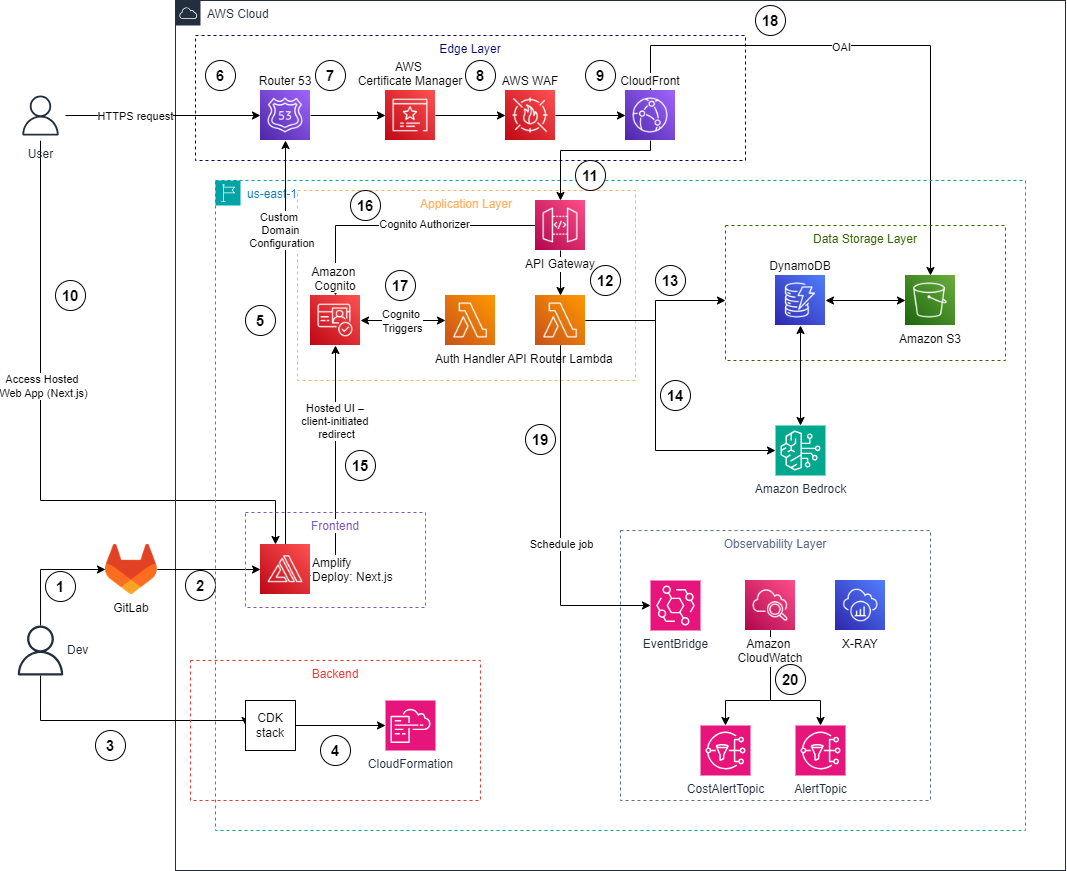
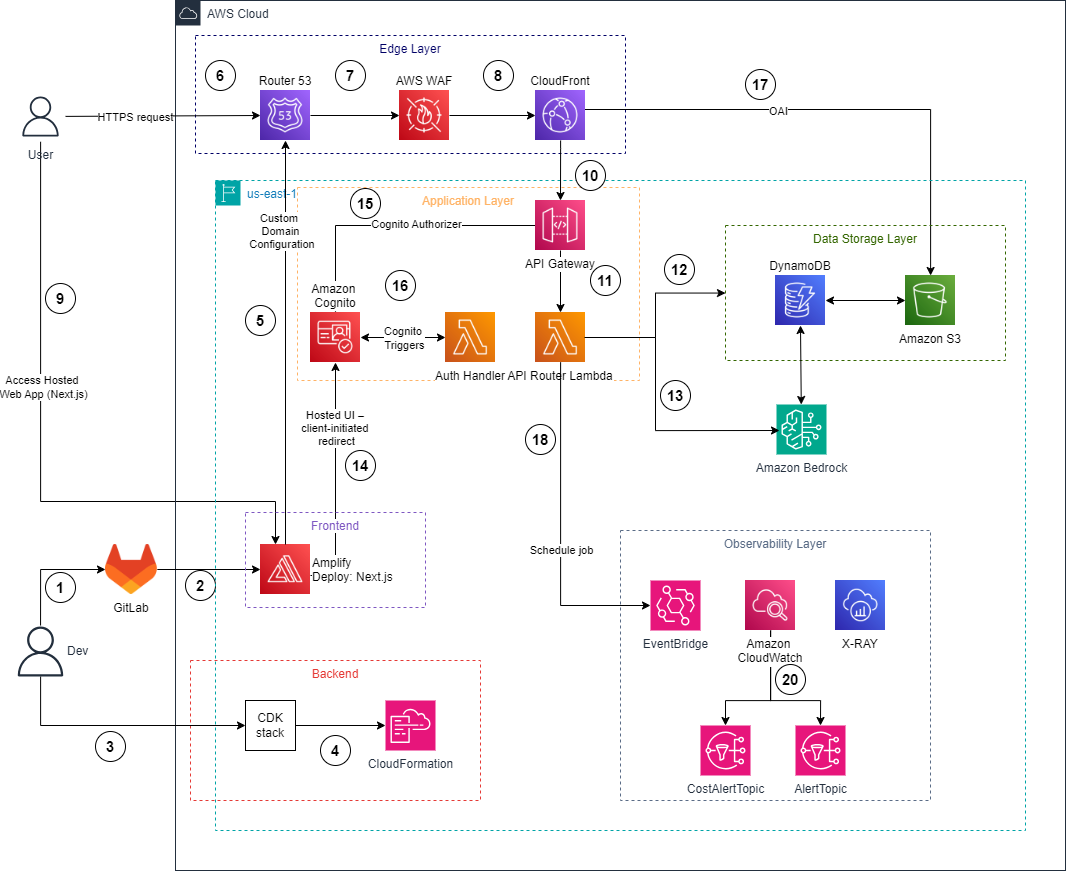
Update proposal

diff --git a/content/2-Proposal/_index.vi.md b/content/2-Proposal/_index.vi.md
@@ -11,61 +11,62 @@ pre: " <b> 2. </b> "
 
 ### 1. Tóm tắt dự án
 **Mini Food Social** là một nền tảng mạng xã hội ẩm thực được xây dựng hoàn toàn theo kiến trúc **serverless**, tích hợp AI để hỗ trợ sáng tạo công thức món ăn.  
-Hệ thống cho phép người dùng chia sẻ bài viết, tải ảnh món ăn, và nhận gợi ý công thức mới dựa trên sở thích hoặc nguyên liệu.  
-Ứng dụng hỗ trợ tối đa **100 người dùng đăng ký**, với các tính năng: đăng nhập, đăng bài, thích, bình luận, và tương tác AI.
+Người dùng có thể đăng bài, chia sẻ hình ảnh món ăn, và nhận gợi ý công thức nấu ăn được sinh tự động bởi AI dựa trên nguyên liệu hoặc khẩu vị.  
+Ứng dụng hỗ trợ tối đa **100 người dùng đăng ký**, với các tính năng: đăng nhập, đăng bài, bình luận, thích, và gợi ý món ăn thông minh.
 
-Giải pháp sử dụng các dịch vụ AWS được quản lý hoàn toàn, đảm bảo khả năng mở rộng, bảo mật và chi phí tối ưu:
-- **AWS Amplify** (Lưu trữ và CI/CD cho frontend Next.js)  
+Hệ thống sử dụng các dịch vụ được quản lý toàn phần của AWS, đảm bảo khả năng mở rộng, bảo mật và chi phí tối ưu:
+- **AWS Amplify** (Lưu trữ & CI/CD frontend Next.js)  
 - **Amazon API Gateway** + **AWS Lambda** (Xử lý backend)  
 - **Amazon DynamoDB** (CSDL NoSQL)  
-- **Amazon Bedrock** (Sinh công thức AI)  
+- **Amazon Bedrock** (AI sinh công thức)  
 - **Amazon Cognito** (Xác thực người dùng)  
-- **Amazon CloudFront + WAF + ACM + Route 53** (Phân phối và bảo mật nội dung)
+- **Amazon CloudFront + WAF + Route 53** (Phân phối & bảo mật nội dung)  
 
-Giải pháp này cung cấp nền tảng vững chắc, chi phí thấp và sẵn sàng mở rộng cho ứng dụng web hiện đại.
+Giải pháp mang lại nền tảng ổn định, chi phí thấp và dễ mở rộng cho ứng dụng web hiện đại.
 
 ---
 
 ### 2. Vấn đề và giải pháp
 #### Vấn đề hiện tại
-Các nền tảng chia sẻ công thức hiện nay thường mang tính tĩnh, thiếu cá nhân hóa và khó mở rộng.  
+Các nền tảng chia sẻ công thức hiện nay thường thiếu tính cá nhân hóa và tương tác.  
 Người dùng mong muốn:
-- Cộng đồng tương tác (đăng bài, bình luận, thích bài)  
+- Cộng đồng tương tác mạnh mẽ (đăng bài, bình luận, thích bài)  
 - Gợi ý công thức thông minh bằng AI  
-- Đăng nhập dễ dàng và bảo mật cao  
+- Đăng nhập dễ dàng, bảo mật cao  
 
-Tuy nhiên, việc xây dựng hệ thống như vậy thường đòi hỏi chi phí cao và quản lý phức tạp.
+Tuy nhiên, việc vận hành hệ thống như vậy thường tốn kém và phức tạp khi mở rộng.
 
 #### Giải pháp đề xuất
-**Mini Food Social** ứng dụng hoàn toàn kiến trúc **Serverless** và **Event-driven** của AWS:
+**Mini Food Social** áp dụng kiến trúc **Serverless** và **Event-driven** hoàn toàn trên AWS:
 - **Amplify** triển khai frontend qua GitLab CI/CD.  
-- **Cognito** quản lý đăng nhập, xác thực và token JWT.  
+- **Cognito** quản lý đăng nhập, xác thực, và token JWT.  
 - **API Gateway** định tuyến request đến **Lambda**.  
-- **Lambda Router** xử lý logic: bài đăng, hồ sơ, và yêu cầu AI.  
-- **Bedrock** tạo công thức món ăn dựa theo prompt của người dùng.  
-- **CloudFront + WAF** đảm bảo phân phối nhanh và an toàn.
+- **Lambda Router** xử lý logic (bài đăng, người dùng, AI).  
+- **Bedrock** sinh công thức món ăn dựa trên prompt người dùng.  
+- **CloudFront + WAF** phân phối nhanh và đảm bảo an toàn.  
 
 ---
 
 ### Lợi ích & Hiệu quả đầu tư
-- **Chi phí thấp** — Trả tiền theo mức sử dụng, không cần máy chủ.  
+- **Chi phí thấp** — Trả tiền theo mức sử dụng, không cần quản lý máy chủ.  
 - **Tự động mở rộng** — Hoạt động ổn định khi tăng lượng người dùng.  
-- **Tích hợp AI** — Tăng mức độ tương tác và giữ chân người dùng.  
+- **Tích hợp AI** — Nâng cao trải nghiệm và giữ chân người dùng.  
 - **Bảo mật cao** — Cognito xác thực, dữ liệu mã hóa trong S3 & DynamoDB.  
 
-**Chi phí hàng tháng ước tính (không tính Free Tier): ≈ $16.70 USD**  
-**Chi phí hàng năm: ≈ $200.40 USD**
+**Chi phí hàng tháng ước tính (không tính Free Tier): ≈ $15.40 USD**  
+**Chi phí hàng năm: ≈ $184.80 USD**
 
 ---
 
 ### 3. Kiến trúc hệ thống
-Hệ thống được thiết kế theo mô hình **5 lớp Serverless**, đảm bảo tính mở rộng, dễ bảo trì và tiết kiệm chi phí.
+Hệ thống được chia thành **5 lớp Serverless**, giúp quản lý độc lập và dễ mở rộng:
 
-- **Lớp CI/CD:** GitLab tự động triển khai code — frontend qua **AWS Amplify**, backend qua **AWS CDK** và **CloudFormation**.  
-- **Lớp Edge:** Bảo mật & phân phối lưu lượng với **Route 53** (DNS), **ACM** (chứng chỉ SSL), **WAF** (tường lửa), và **CloudFront** (CDN toàn cầu). CloudFront truy cập S3 qua **OAI** để đảm bảo quyền riêng tư.  
-- **Lớp Ứng dụng:** **Amplify** lưu trữ giao diện Next.js; **API Gateway** + **Lambda** xử lý logic backend; **Cognito** quản lý xác thực & token.  
-- **Lớp Dữ liệu:** **DynamoDB** lưu dữ liệu người dùng & bài viết; **S3** lưu hình ảnh; **EventBridge** quản lý sự kiện bất đồng bộ.  
-- **Lớp Quan sát:** **CloudWatch** (giám sát), **X-Ray** (theo dõi request), và **SNS** (gửi cảnh báo).  
+- **Lớp CI/CD:** GitLab tự động triển khai — **Amplify** cho frontend, **CDK + CloudFormation** cho backend.  
+- **Lớp Edge:** Bảo mật & phân phối lưu lượng với **Route 53** (DNS), **WAF** (Web Application Firewall), và **CloudFront** (CDN).  
+  CloudFront truy cập **S3** qua **OAI (Origin Access Identity)** để tăng bảo mật.  
+- **Lớp Ứng dụng:** **Amplify** lưu trữ frontend (Next.js); **API Gateway + Lambda** xử lý backend; **Cognito** xác thực & cấp token.  
+- **Lớp Dữ liệu:** **DynamoDB** lưu dữ liệu bài đăng và người dùng; **S3** lưu hình ảnh; **EventBridge** xử lý sự kiện bất đồng bộ.  
+- **Lớp Quan sát:** **CloudWatch** (giám sát), **X-Ray** (truy vết request), **SNS** (gửi thông báo chi phí và cảnh báo).
 
 ![Mini Food Social Architecture](/images/2-Proposal/FsocialArchitecture.png)
 
@@ -73,7 +74,7 @@ Hệ thống được thiết kế theo mô hình **5 lớp Serverless**, đảm
 | Danh mục | Dịch vụ |
 |-----------|----------|
 | **Frontend & CI/CD** | AWS Amplify (Next.js), GitLab, AWS CDK, CloudFormation |
-| **Edge & Bảo mật** | Route 53, ACM, CloudFront, WAF |
+| **Edge & Bảo mật** | Route 53, CloudFront, WAF |
 | **Ứng dụng & Xử lý** | API Gateway, AWS Lambda, Amazon Cognito |
 | **Dữ liệu & AI** | DynamoDB (single-table), S3, Amazon Bedrock |
 | **Quan sát & Sự kiện** | CloudWatch, X-Ray, SNS, EventBridge |
@@ -114,7 +115,7 @@ Hệ thống được thiết kế theo mô hình **5 lớp Serverless**, đảm
 ### 5. Lộ trình & Mốc hoàn thành
 | Tháng | Kết quả |
 |--------|----------|
-| **Tháng 1** | Hoàn thành thiết kế kiến trúc & CI/CD |
+| **Tháng 1** | Hoàn thiện thiết kế kiến trúc & CI/CD |
 | **Tháng 2** | Hoàn thiện xác thực & backend |
 | **Tháng 3** | Tích hợp frontend, AI & quan sát hệ thống |
 | **Cuối tháng 3** | ✅ Triển khai bản Production |
@@ -122,7 +123,7 @@ Hệ thống được thiết kế theo mô hình **5 lớp Serverless**, đảm
 ---
 
 ### 6. Ước tính chi phí
-#### Chi phí dịch vụ AWS (100 người dùng hoạt động, không Free Tier)
+#### Chi phí dịch vụ AWS (100 người dùng hoạt động, không tính Free Tier)
 | Dịch vụ | Mô tả | Chi phí tháng (USD) |
 |----------|--------|---------------------|
 | **AWS Amplify** | Lưu trữ & CI/CD frontend | **$2.00** |
@@ -136,10 +137,10 @@ Hệ thống được thiết kế theo mô hình **5 lớp Serverless**, đảm
 | **Amazon Bedrock** | Sinh văn bản (~50K tokens) | **$2.50** |
 | **Amazon EventBridge** | Xử lý sự kiện | **$0.10** |
 | **Amazon Route 53** | Tên miền + DNS | **$1.30** |
-| **ACM / CloudFormation / SNS / X-Ray** | SSL + hạ tầng + giám sát | **$0.00** |
+| **CloudFormation / SNS / X-Ray** | Hạ tầng + giám sát | **$0.00** |
 
-**➡ Tổng chi phí hàng tháng:** ≈ **$16.70 USD**  
-**➡ Chi phí hàng năm:** ≈ **$200.40 USD**
+**➡ Tổng chi phí hàng tháng:** ≈ **$15.40 USD**  
+**➡ Chi phí hàng năm:** ≈ **$184.80 USD**
 
 ---
 
@@ -151,19 +152,19 @@ Hệ thống được thiết kế theo mô hình **5 lớp Serverless**, đảm
 | Rule WAF chặn nhầm traffic | Trung bình | Thấp |
 
 **Giải pháp giảm thiểu:**  
-- Cài đặt cảnh báo chi phí CloudWatch cho Bedrock.  
-- Giới hạn quyền truy cập Lambda bằng IAM.  
-- Kiểm thử rule WAF trên môi trường staging trước production.
+- Thiết lập cảnh báo chi phí CloudWatch cho Bedrock.  
+- Áp dụng nguyên tắc **IAM least privilege** cho Lambda.  
+- Kiểm thử rule WAF trong môi trường staging trước production.
 
 ---
 
 ### 8. Kết quả kỳ vọng
 #### Kết quả kỹ thuật
 - Hoàn thiện nền tảng **mạng xã hội ẩm thực serverless** có tích hợp AI.  
-- Hệ thống bảo mật cao với **Cognito**, **WAF**, **CloudFront**.  
-- Giám sát toàn diện qua **CloudWatch** và **X-Ray**.
+- Hệ thống bảo mật và mở rộng tốt với **Cognito**, **WAF**, **CloudFront**.  
+- Giám sát và cảnh báo tự động bằng **CloudWatch** và **X-Ray**.
 
 #### Giá trị lâu dài
-- Chứng minh năng lực ứng dụng thực tế **Serverless, DevOps, AI Integration**.  
-- Có thể mở rộng lên **500+ người dùng** dễ dàng.  
-- Dùng lại như mẫu tham khảo cho các dự án AWS sau này.
+- Thể hiện năng lực thực hành **Serverless, DevOps, AI Integration**.  
+- Có thể mở rộng lên **500+ người dùng** mà không cần thay đổi kiến trúc.  
+- Là **mẫu kiến trúc chuẩn AWS** có thể tái sử dụng cho các dự án sau.

diff --git a/content/2-Proposal/_index.md b/content/2-Proposal/_index.md
@@ -20,7 +20,7 @@ The architecture leverages **AWS managed services** for scalability, cost effici
 - **Amazon DynamoDB** (NoSQL data store)
 - **Amazon Bedrock** (AI text generation)
 - **Amazon Cognito** (authentication)
-- **Amazon CloudFront + WAF + ACM + Route 53** (secure content delivery)
+- **Amazon CloudFront + WAF + Route 53** (secure content delivery)
 
 This solution provides an affordable, production-ready foundation for modern serverless applications.
 
@@ -63,7 +63,9 @@ The system follows a **five-layer serverless architecture** that ensures modular
 
 At the **CI/CD Layer**, GitLab automates deployments — pushing frontend code to **AWS Amplify** and provisioning backend infrastructure via **AWS CDK** and **CloudFormation**.
 
-The **Edge Layer** secures and routes all requests using **Amazon Route 53** for DNS, **ACM** for SSL/TLS, **WAF** for traffic filtering, and **CloudFront** for global content caching. CloudFront communicates privately with **S3** using an **Origin Access Identity (OAI)**.
+The **Edge Layer** secures and routes all requests using **Amazon Route 53** for DNS, **WAF** for traffic filtering, and **CloudFront** for global content caching.  
+SSL/TLS certificates are automatically managed by **AWS Amplify** (no separate ACM required).  
+CloudFront communicates privately with **S3** using an **Origin Access Identity (OAI)**.
 
 In the **Application Layer**, Amplify hosts the **Next.js frontend**, while **API Gateway** and **Lambda** handle backend logic. **Cognito** authenticates users and manages tokens for API access.
 
@@ -77,7 +79,7 @@ Finally, the **Observability Layer** integrates **CloudWatch** (logs & metrics),
 | Category | Services |
 |-----------|-----------|
 | **Frontend & CI/CD** | AWS Amplify (Next.js), GitLab, AWS CDK, CloudFormation |
-| **Edge & Security** | Route 53, ACM, CloudFront, WAF |
+| **Edge & Security** | Route 53, CloudFront, WAF |
 | **Application & Compute** | API Gateway, AWS Lambda, Amazon Cognito |
 | **Data & AI** | DynamoDB (single-table), S3, Amazon Bedrock |
 | **Observability & Events** | CloudWatch, X-Ray, SNS, EventBridge |
@@ -86,7 +88,7 @@ Finally, the **Observability Layer** integrates **CloudWatch** (logs & metrics),
 
 ### Component Design
 - **User Access:** User → CloudFront → Amplify (Frontend)  
-- **Authentication:** CloudFront → Cognito (Hosted UI redirect)  
+- **Authentication:** Amplify → Cognito (Hosted UI redirect)  
 - **API Calls:** Amplify → Route 53 → CloudFront → WAF → API Gateway  
 - **API Authorization:** API Gateway → Cognito Authorizer  
 - **Backend Logic:** API Router Lambda → DynamoDB / S3 / Bedrock  
@@ -140,7 +142,7 @@ Finally, the **Observability Layer** integrates **CloudWatch** (logs & metrics),
 | **Amazon Bedrock** | AI text generation (~50K tokens) | **$2.50** |
 | **Amazon EventBridge** | Event-driven tasks | **$0.10** |
 | **Amazon Route 53** | Domain + DNS + hosted zone | **$1.30** |
-| **ACM / CloudFormation / SNS / X-Ray** | SSL + infra mgmt + monitoring | **$0.00** |
+| **CloudFormation / SNS / X-Ray** | Infra mgmt + monitoring | **$0.00** |
 
 **➡ Total Estimated Monthly Cost:** ≈ **$16.70 USD**  
 **➡ Annual Cost:** ≈ **$200.40 USD**
